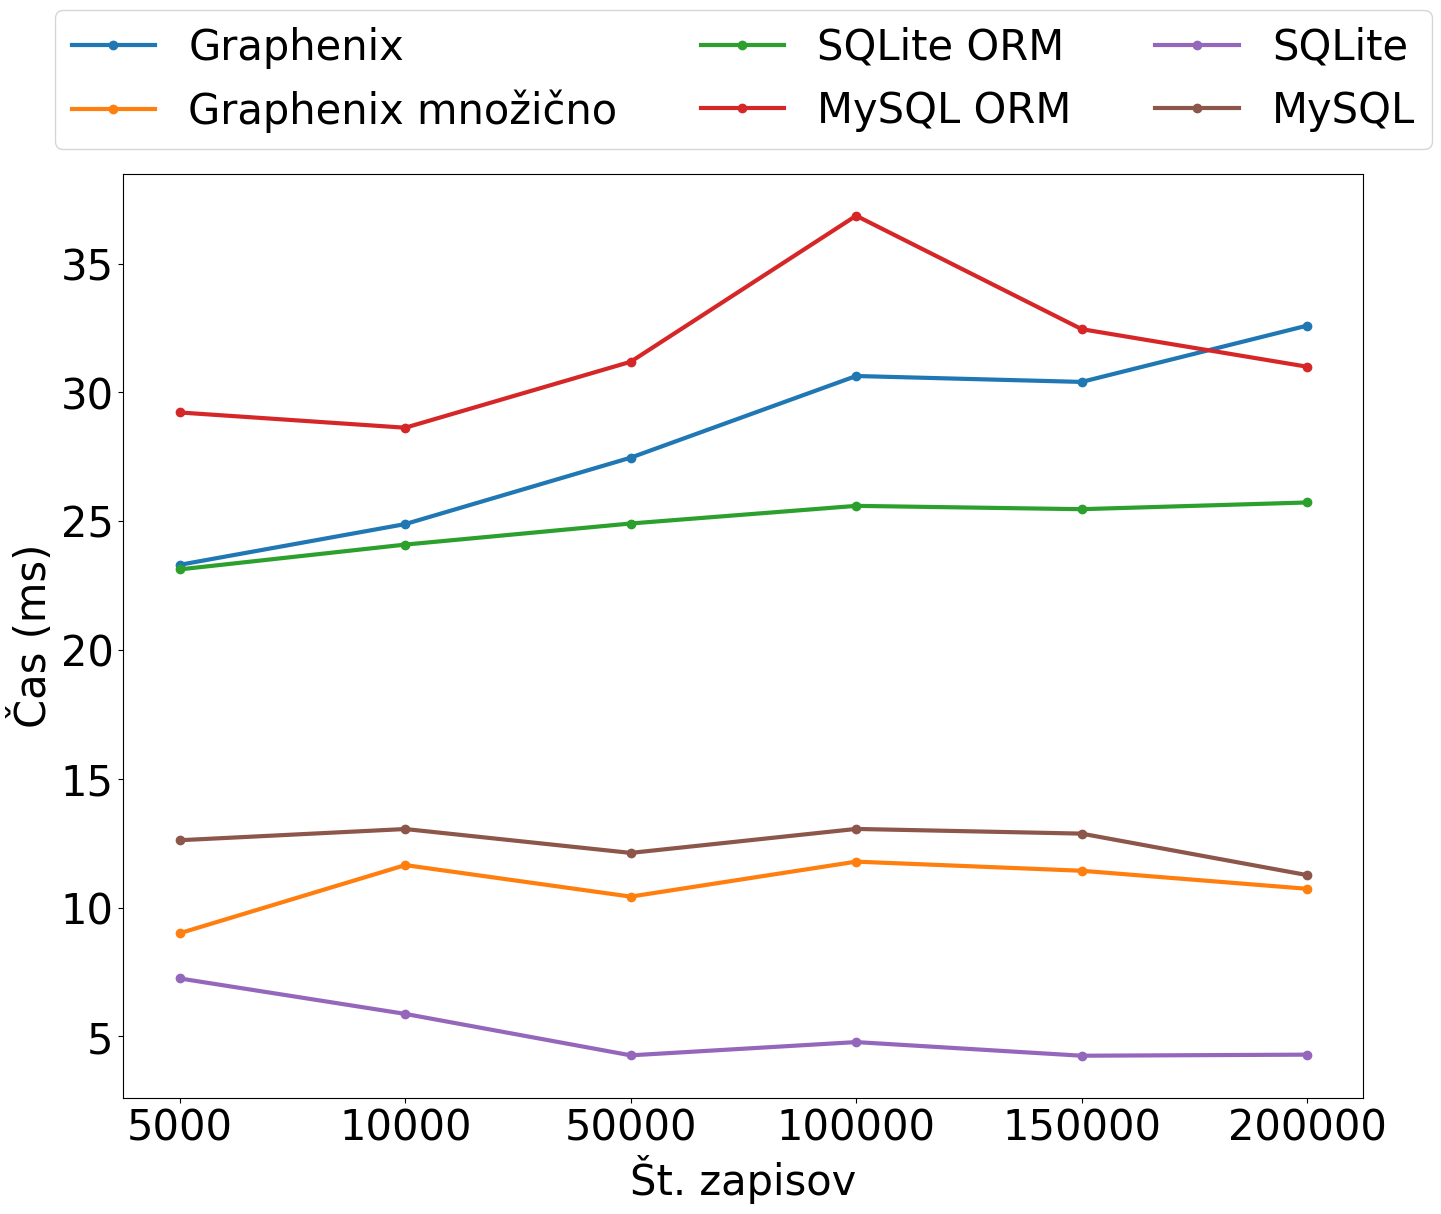
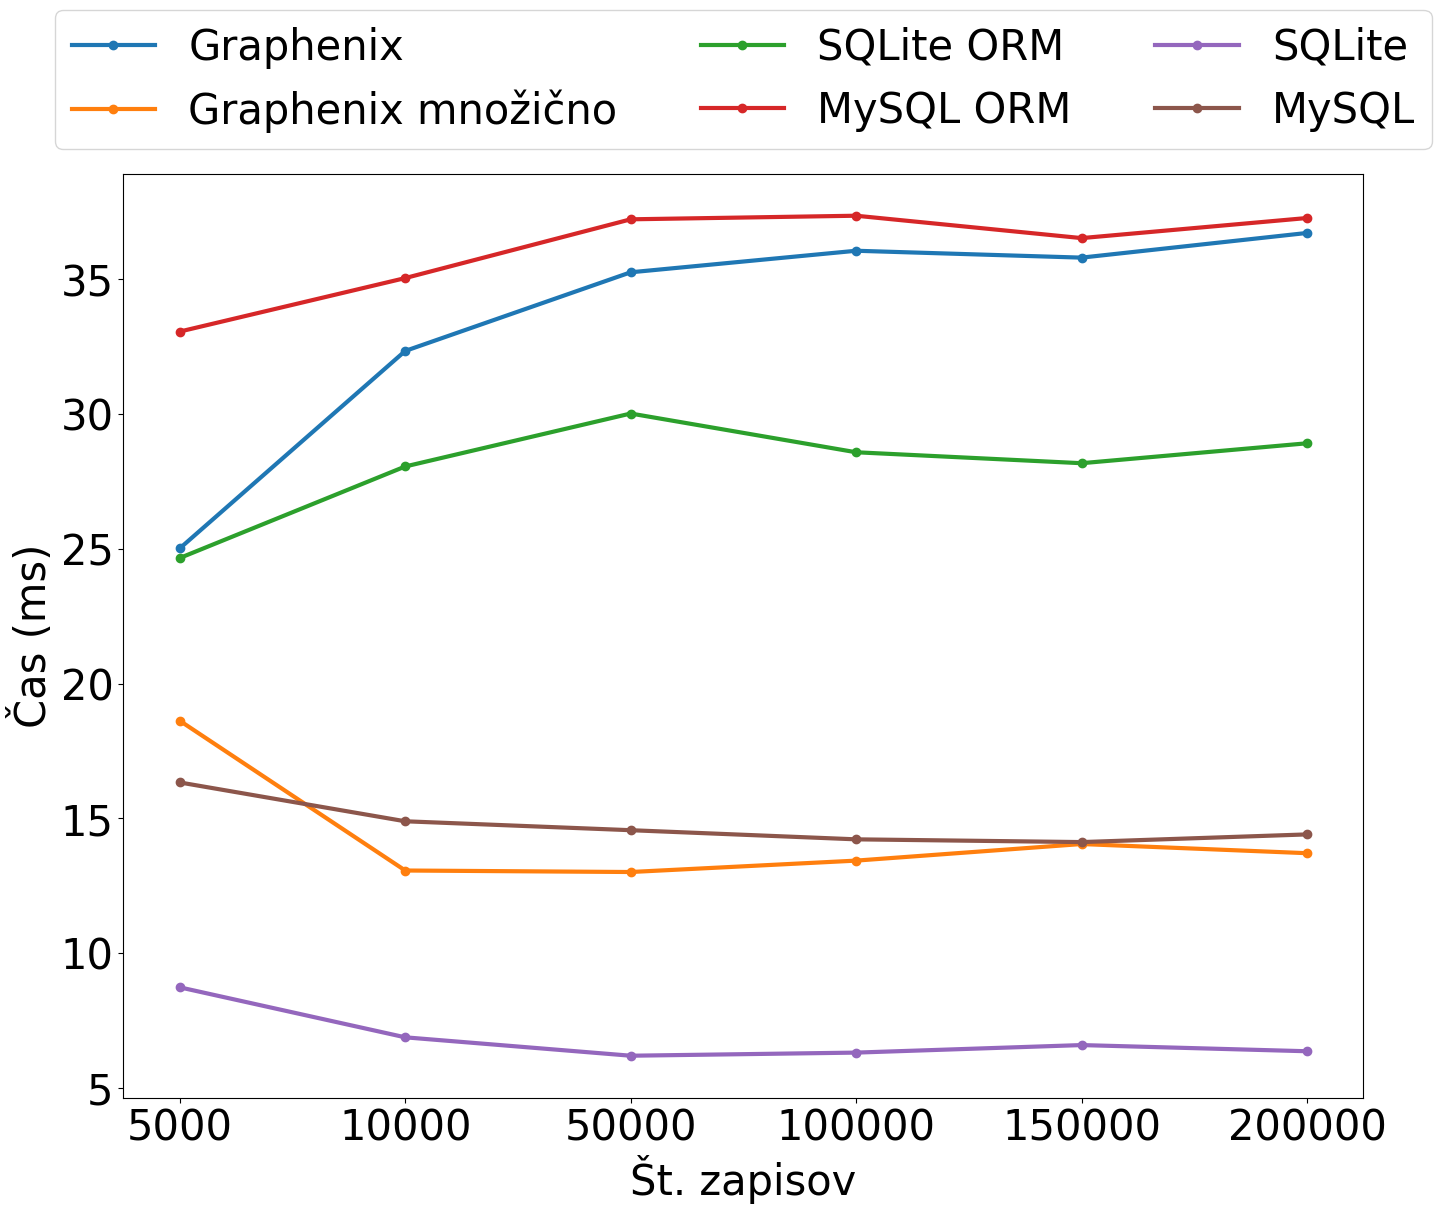
- new analysis finished (query read)

diff --git a/analysis/queryread/alchemy_sqlite.py b/analysis/queryread/alchemy_sqlite.py
@@ -1,13 +1,14 @@
-from sqlalchemy import create_engine, Column, String, Integer, Boolean, DateTime
-from sqlalchemy.orm import sessionmaker, declarative_base
-from .data import user_data
+from sqlalchemy import create_engine, Column, String, Integer, Boolean, DateTime, inspect
+from sqlalchemy.orm import sessionmaker, as_declarative
+
 import time
 import sys
-import os
-import random
-random.seed(12)
 
-Base = declarative_base()
+@as_declarative()
+class Base:
+    def _asdict(self):
+        return {c.key: getattr(self, c.key)
+                for c in inspect(self).mapper.column_attrs}
 
 class User(Base):
     __tablename__ = 'users'
@@ -21,20 +22,16 @@ class User(Base):
 
 def main():
     num_users = int(sys.argv[1])
-    if os.path.exists(f'graphenix_db/sqlite_singleinsert_alchemy_{num_users}.db'):
-        os.remove(f'graphenix_db/sqlite_singleinsert_alchemy_{num_users}.db')
-       
     engine = create_engine(f'sqlite:///graphenix_db/sqlite_singleinsert_alchemy_{num_users}.db')
-    Base.metadata.create_all(engine)
     Session = sessionmaker(bind=engine)
     start_time = time.perf_counter()
 
     session = Session()
-    users = [User(**{**user_data, "first_name": user_data['first_name'] + str(i),
-                     "is_admin": i%2 == 0, "age": random.randint(10, 80)}) for i in range(num_users)]
-    session.bulk_save_objects(users)
+    data = session.query(User).filter(User.is_admin == 1).order_by(User.age, User.id).limit(500).all()
+    searilized = [row._asdict() for row in data]
+    assert len(searilized) == 500 and isinstance(searilized[0], dict) and searilized[0]['age'] == 10 \
+        and searilized[0]['first_name'] == 'John12'
 
-    session.commit()
     session.close()
     end_time = time.perf_counter()
     elapsed_time = (end_time - start_time) * 1000

diff --git a/analysis/queryread/graph.py b/analysis/queryread/graph.py
@@ -1,0 +1,49 @@
+import numpy as np
+import matplotlib.pyplot as plt
+
+def read_nums(file_path): 
+    try:
+        with open(file_path, 'r') as file:
+            lines = file.readlines()
+            times = [float(line.strip()) for line in lines]
+        return np.array(times)
+    except Exception as ex:
+        print("err", ex)
+        return []
+    
+
+def main():
+    sizes = (10000, 50000, 100000, 150000, 200000)
+    files = (f'./analysis/queryread/result_{s}.txt' for s in sizes)
+    matrix = np.zeros((5, len(sizes)))
+
+    for i, (file, size) in enumerate(zip(files, sizes)):
+        col = read_nums(file)
+        matrix[:, i] = col
+
+    plt.rcParams.update({'font.size': 3 * plt.rcParams['font.size']})
+    plt.style.use("fast")
+
+    x_values = np.arange(len(sizes))
+    fig, ax = plt.subplots(figsize=(16, 12))
+    width = 0.15
+
+    ax.bar(x_values - 2*width, matrix[0], width, label='Graphenix', color="#F5D65D")
+    ax.bar(x_values - width, matrix[3], width, label='SQLite', color="#D2CC7E")
+    ax.bar(x_values, matrix[4], width, label='MySQL', color="#AFC29E")
+    ax.bar(x_values + width, matrix[1], width, label='SQLite ORM', color="#8BB7BF")
+    ax.bar(x_values + 2*width, matrix[2], width, label='MySQL ORM', color="#68ADDF")
+
+    # Set labels and title
+    ax.set_xlabel('Št. zapisov')
+    ax.set_ylabel('Čas (ms)')
+    ax.set_title('')
+    ax.set_xticks(x_values)
+    ax.set_xticklabels([str(s) for s in sizes], rotation=0)
+    ax.legend()
+    plt.savefig(f'./analysis/queryread/queryread.png', bbox_inches='tight')
+    plt.close()
+
+
+if __name__ == '__main__':
+    main()

diff --git a/analysis/queryread/alchemy_mysql.py b/analysis/queryread/alchemy_mysql.py
@@ -1,0 +1,44 @@
+from sqlalchemy import create_engine, Column, String, Integer, Boolean, DateTime, inspect
+from sqlalchemy.orm import sessionmaker, as_declarative
+    
+import time
+import sys
+
+@as_declarative()
+class Base:
+    def _asdict(self):
+        return {c.key: getattr(self, c.key)
+                for c in inspect(self).mapper.column_attrs}
+
+class User(Base):
+    __tablename__ = 'users'
+    id = Column(Integer, primary_key=True)
+    first_name = Column(String(50))
+    last_name = Column(String(50))
+    email = Column(String(50))
+    age = Column(Integer)
+    is_admin = Column(Boolean)
+    created_at = Column(DateTime)
+
+def main():
+    num_users = int(sys.argv[1])
+    dbname = f'singleselect_{num_users}'
+    
+    engine = create_engine(f'mysql+mysqlconnector://root:root@localhost:3307/{dbname}')
+    Session = sessionmaker(bind=engine)
+
+    start_time = time.perf_counter()
+    session = Session()
+
+    data = session.query(User).filter(User.is_admin == 1).order_by(User.age, User.id).limit(500).all()
+    searilized = [row._asdict() for row in data]
+    assert len(searilized) == 500 and isinstance(searilized[0], dict) and searilized[0]['age'] == 10 \
+        and searilized[0]['first_name'] == 'John12'
+
+    session.close()
+    end_time = time.perf_counter()
+    elapsed_time = (end_time - start_time) * 1000
+    print(f"{elapsed_time:.2f}")
+
+if __name__ == '__main__':
+    main()

diff --git a/analysis/queryread/raw_mysql.py b/analysis/queryread/raw_mysql.py
@@ -1,0 +1,27 @@
+import mysql.connector
+import time
+import sys
+import os
+
+def main():
+    num_users = int(sys.argv[1])
+    dbname = f'raw_singleselect_{num_users}'
+
+    conn = mysql.connector.connect(host='localhost', port=3307, user='root', password='root')
+    start_time = time.perf_counter()
+
+    cursor = conn.cursor(dictionary=True)
+    cursor.execute(f"USE {dbname}")
+    cursor.execute("SELECT * FROM users WHERE is_admin = 1 ORDER BY age, id LIMIT 500")
+    searilized = cursor.fetchall()
+    assert len(searilized) == 500 and isinstance(searilized[0], dict) and searilized[0]['age'] == 10 \
+        and searilized[0]['first_name'] == 'John12'  
+    
+    cursor.close()
+    conn.close()
+    end_time = time.perf_counter()
+    elapsed_time = (end_time - start_time) * 1000
+    print(f"{elapsed_time:.2f}")
+
+if __name__ == '__main__':
+    main()

diff --git a/analysis/singleinsert/raw_mysql.py b/analysis/singleinsert/raw_mysql.py
@@ -3,6 +3,8 @@ import mysql.connector
 import time
 import sys
 import os
+import random
+random.seed(12)
 
 create_table = """
     CREATE TABLE `users` (
@@ -38,8 +40,8 @@ def main():
     user_data_list = []
     for i in range(num_users):
         is_admin = i % 2 == 0
-        user_tuple = (user_data['first_name'], user_data['last_name'], user_data['email'],
-                      user_data['age'], int(is_admin), user_data['created_at'])
+        user_tuple = (user_data['first_name'] + str(i), user_data['last_name'], user_data['email'],
+                      random.randint(10, 80), int(is_admin), user_data['created_at'])
         user_data_list.append(user_tuple)
 
     insert_query = f"INSERT INTO users (first_name, last_name, email, age, is_admin, created_at) " \

diff --git a/analysis/singleinsert/graphenix_bulk.py b/analysis/singleinsert/graphenix_bulk.py
@@ -2,6 +2,8 @@ from graphenix import Field, Schema, Model
 from .data import user_data
 import sys
 import time
+import random
+random.seed(12)
 
 class User(Model):
     first_name = Field.String(size=50)
@@ -24,8 +26,8 @@ def main():
     user_data_list = []
     for i in range(num_users):
         is_admin = i % 2 == 0
-        usr = [user_data['first_name'], user_data['last_name'], user_data['email'],
-                      user_data['age'], is_admin, int(user_data['created_at'].timestamp())]
+        usr = [user_data['first_name'] + str(i), user_data['last_name'], user_data['email'],
+               random.randint(10, 80), is_admin, int(user_data['created_at'].timestamp())]
         user_data_list.append(usr)
 
     User.bulkcreate(user_data_list)

diff --git a/analysis/queryread/raw_sqlite.py b/analysis/queryread/raw_sqlite.py
@@ -10,10 +10,12 @@ def main():
     start_time = time.perf_counter()
     cursor = conn.cursor()
 
-    cursor = conn.cursor()
-    cursor.execute("SELECT * FROM users")
-    data = cursor.fetchall()
-    print(data[0])
+    cursor.execute("SELECT * FROM users WHERE is_admin = 1 ORDER BY age, id LIMIT 500")
+    searilized = [{col[0]: row[idx] for idx, col in enumerate(cursor.description)}
+                  for row in cursor.fetchall()]
+    
+    assert len(searilized) == 500 and isinstance(searilized[0], dict) and searilized[0]['age'] == 10 \
+        and searilized[0]['first_name'] == 'John12'
     
     cursor.close()
     conn.close()

diff --git a/analysis/singleinsert/raw_sqlite.py b/analysis/singleinsert/raw_sqlite.py
@@ -3,6 +3,8 @@ import sqlite3
 import time
 import sys
 import os
+import random
+random.seed(12)
 
 create_table = """
      CREATE TABLE users (
@@ -31,7 +33,8 @@ def main():
     start_time = time.perf_counter()
 
     for i in range(num_users):
-        cu = {**user_data, "is_admin": i%2 == 0}
+        cu = {**user_data, "is_admin": i%2 == 0, "age": random.randint(10, 80),
+              "first_name": user_data['first_name'] + str(i)}
         cursor.execute(
             "INSERT INTO users (first_name, last_name, email, age, is_admin, created_at) VALUES (?, ?, ?, ?, ?, ?)",
             tuple(cu.values())

diff --git a/analysis/singleinsert/graphenix.py b/analysis/singleinsert/graphenix.py
@@ -2,6 +2,8 @@ from graphenix import Field, Schema, Model
 from .data import user_data
 import sys
 import time
+import random
+random.seed(12)
 
 class User(Model):
     first_name = Field.String(size=50)
@@ -21,7 +23,8 @@ def main():
 
     start_time = time.perf_counter()
     for i in range(num_users):
-        current_user = {**user_data, "is_admin": i%2 == 0}
+        current_user = {**user_data, "first_name": user_data['first_name'] + str(i),
+                        "is_admin": i%2 == 0, "age": random.randint(10, 80)}
         user = User(**current_user)
         user.save()
 

diff --git a/analysis/singleinsert/alchemy_mysql.py b/analysis/singleinsert/alchemy_mysql.py
@@ -5,6 +5,8 @@ import mysql.connector
 import time
 import sys
 import os
+import random
+random.seed(12)
 
 Base = declarative_base()
 
@@ -34,7 +36,8 @@ def main():
     Session = sessionmaker(bind=engine)
     start_time = time.perf_counter()
 
-    users = [User(**{**user_data, "is_admin": i%2 == 0}) for i in range(num_users)]
+    users = [User(**{**user_data, "first_name": user_data['first_name'] + str(i),
+                     "is_admin": i%2 == 0, "age": random.randint(10, 80)}) for i in range(num_users)]
 
     session = Session()
     session.bulk_save_objects(users)

diff --git a/analysis/queryread/graphenix.py b/analysis/queryread/graphenix.py
@@ -16,7 +16,13 @@ def main():
 
     start_time = time.perf_counter()
     
-    _, data = User.all()
+    _, data = User\
+        .filter(User.is_admin.equals(True))\
+        .order(User.age, User).limit(500).all()
+    
+    searilized = data.as_dict()
+    assert len(searilized) == 500 and isinstance(searilized[0], dict) and searilized[0]['age'] == 10 \
+        and searilized[0]['first_name'] == 'John12'
 
     end_time = time.perf_counter()
     elapsed_time = (end_time - start_time) * 1000
@@ -24,4 +30,3 @@ def main():
 
 if __name__ == '__main__':
     main()
-
